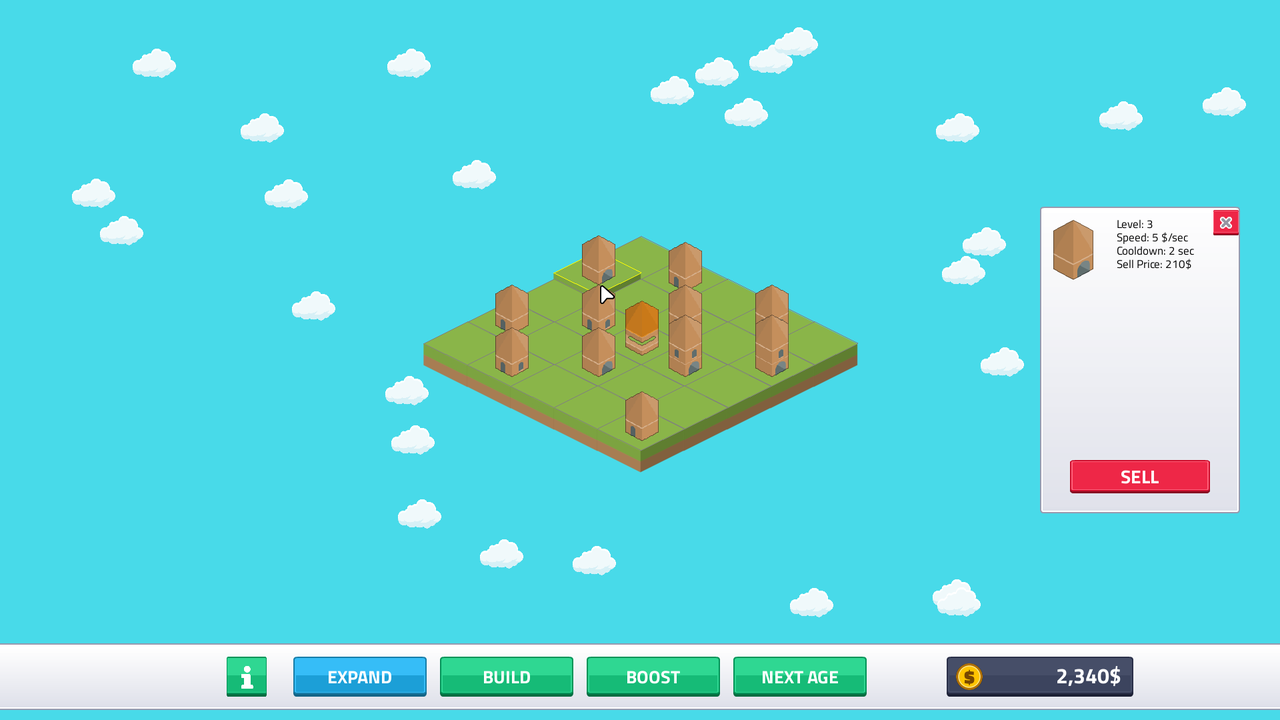
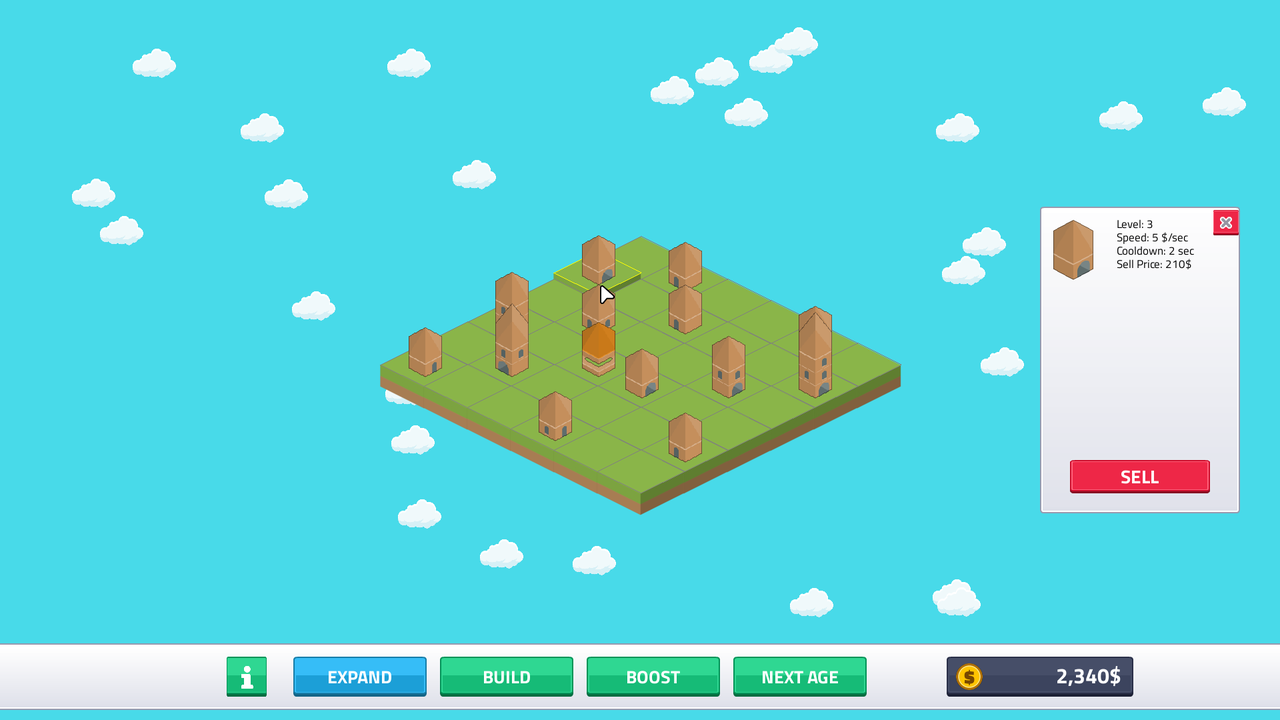
docs: Fix the stale age-tasks notes, use a bigger board in the screenshots
The age tasks checklist only shows on hover (no ui option). The capture script wraps its temp save folder in a with block, and the mid-game board is 6x6 with levels up to 7.

Changed region(s): [[0.2812, 0.3667, 0.7188, 0.7333]]

diff --git a/scripts/capture_readme.py b/scripts/capture_readme.py
@@ -261,24 +261,26 @@ def main_menu(studio: Studio) -> Image.Image:
 
 
 def mid_game(studio: Studio) -> Building:
-    """A 5x5 wood board with buildings of several levels and a booster; returns the booster."""
-    studio.new_game(money=2340, size=5)
+    """A 6x6 wood board with buildings of several levels and a booster; returns the booster."""
+    studio.new_game(money=2340, size=6)
     place = studio.place
     for level, row, col, door in (
         (1, 1, 2, L),
-        (2, 1, 4, R),
+        (2, 1, 5, R),
         (3, 2, 1, R),
         (1, 2, 3, L),
-        (4, 2, 5, R),
+        (7, 2, 6, R),
         (2, 3, 2, L),
-        (5, 3, 4, R),
-        (1, 4, 1, L),
-        (3, 4, 3, R),
-        (2, 5, 2, L),
-        (1, 5, 5, L),
+        (5, 3, 5, R),
+        (4, 4, 1, L),
+        (3, 4, 4, R),
+        (6, 5, 2, L),
+        (1, 5, 6, L),
+        (2, 6, 4, R),
+        (1, 6, 1, R),
     ):
         place(level, row, col, door)
-    booster = place(2, 3, 3, L, booster=True)
+    booster = place(2, 4, 3, L, booster=True)
     studio.game.tasks.unlock_boost()
     studio.game.update_button_texts()
     studio.step(4)
@@ -444,10 +446,14 @@ def main() -> None:
     # Every Database this run opens goes to a temp folder, never the real databases/.
     from pygamine import Database, SaveStore
 
-    temp = tempfile.TemporaryDirectory()
-    Database.__init__.__defaults__ = (str(Path(temp.name) / "databases"),)
-    SaveStore.__init__.__defaults__ = (str(Path(temp.name) / "saves"),)
-    random.seed(SEED)
+    with tempfile.TemporaryDirectory() as temp:
+        Database.__init__.__defaults__ = (str(Path(temp) / "databases"),)
+        SaveStore.__init__.__defaults__ = (str(Path(temp) / "saves"),)
+        random.seed(SEED)
+        capture_all(args)
+
+
+def capture_all(args: argparse.Namespace) -> None:
     studio = Studio()
     shots = args.docs / "screenshots"
     try:
@@ -469,7 +475,6 @@ def main() -> None:
         save_png(game_page, extra / "settings-game-tr.png")
     finally:
         studio.close()
-        temp.cleanup()
 
 
 if __name__ == "__main__":

diff --git a/CLAUDE.md b/CLAUDE.md
@@ -180,7 +180,7 @@ board stays visible; `tests/test_info_panel_layout.py` checks it at every UI sca
 Issue #52. `config/tasks.yaml` gives every age but the last 2 or 3 tasks (`building_level`,
 `income_per_second`, `boosted_buildings`; the measures are `MEASURES` in `gameplay/tasks.py`, the
 texts are `tasks.<type>` in the language files), the NEXT AGE cost factor (`next_age_cost_factor`: cost
-is (age number + 1) x factor) and `ui`. Targets are checked at load
+is (age number + 1) x factor). Targets are checked at load
 (`TasksConfig.load(ages, max_level, max_tiles)`: a target the game can't reach is a ValueError).
 `AgeTasks` (`Game.tasks`) reads the age from `Buildings.age_number` (no copy) and holds the done tasks
 (latched, keyed by age: a done task stays done), `boost_unlocked` (latched when the first age's tasks are
@@ -188,10 +188,7 @@ done; any later age counts too) and the cost. `Game._update_tasks` runs every fr
 measures each task once and stores `values` (the checklist reads them), and a newly done task refreshes
 the button texts (BOOST and NEXT AGE show `game.locked` until their tasks are done). `Game.next_age`
 checks tasks and cash before paying. State is saved in the `tasks` table (`GamePersistenceMixin.load_tasks`
-/ `save_tasks`); an old save starts its tasks fresh and has BOOST unlocked past age 1. `ui` picks how the
-checklist (`ui/task_list.py`) shows: `hover` over the NEXT AGE button, or `panel` at the top left (it
-swallows mouse clicks like the info panel); the owner is choosing one (see the devlog), the other is then
-removed.
+/ `save_tasks`); an old save starts its tasks fresh and has BOOST unlocked past age 1. The checklist (`ui/task_list.py`) shows over the NEXT AGE button while the mouse is on it.
 
 ### Cash display and floating money text
 

diff --git a/docs/devlog/2026-11-11-readme-screenshots.md b/docs/devlog/2026-11-11-readme-screenshots.md
@@ -24,7 +24,7 @@ uv run --group dev python scripts/capture_readme.py
 ```
 
 - **01 main menu:** the new menu, the mouse on PLAY.
-- **02 build mode:** a 5x5 board of buildings up to level 5 and a booster; the mouse is on the
+- **02 build mode:** a 6x6 board of buildings up to level 7 and a booster; the mouse is on the
   booster, so the tiles it covers are lit, and the payouts' texts float over the buildings.
 - **03 inspection:** a level 5 building's info panel with the SELL button.
 - **preview.gif:** BUILD twice, three slides that merge buildings, then BOOST and the payouts
